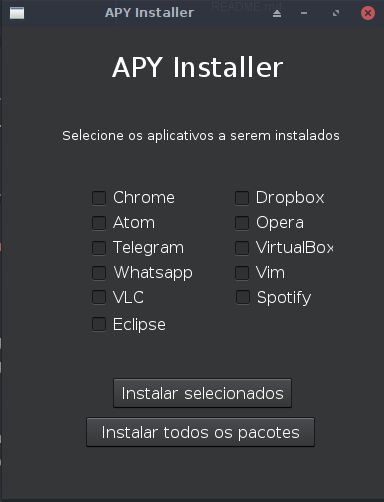
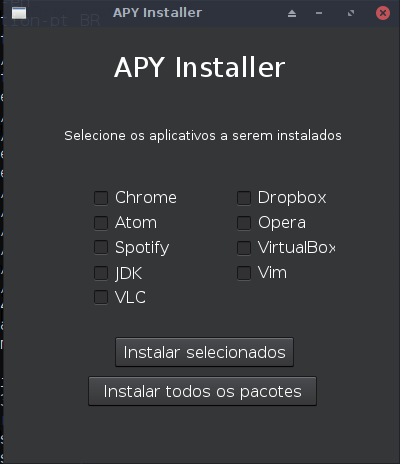
Adição de mais softwares e atualização do exemplo

diff --git a/apy-installer/app.py b/apy-installer/app.py
@@ -29,8 +29,6 @@ class Install(object):
 
                 'Vim': 'sudo -S apt-get install vim -f -y ',
 
-                'Telegram': '',
-
                 'Spotify': 'sudo -S apt-key adv --keyserver hkp://keyserver.ubuntu.com:80 --recv-keys 0DF731E45CE24F27EEEB1450EFDC8610341D9410 && \
                 echo deb http://repository.spotify.com stable non-free | sudo tee /etc/apt/sources.list.d/spotify.list && \
                 sudo apt-get update && sudo apt-get install spotify-client -f -y',
@@ -38,7 +36,12 @@ class Install(object):
                 'VLC': 'sudo -S apt-get install vlc -f -y',
 
                 'VirtualBox': 'sudo -S wget http://download.virtualbox.org/virtualbox/5.2.4/virtualbox-5.2_5.2.4-119785~Debian~jessie_amd64.deb -O virtualbox \
-                sudo dpkg -i virtualbox'
+                sudo dpkg -i virtualbox',
+
+                'Dropbox': 'sudo -S wget https://www.dropbox.com/download?dl=packages/ubuntu/dropbox_2015.10.28_amd64.deb -O dropbox && \
+                dpkg -i dropbox',
+
+                'JDK': 'sudo -S apt-get install default-jre && sudo apt-get install default-jdk'
             }
         command = "echo " + "\""+ self.password +"\"" + " | " + self.commands['update']
 

diff --git a/README.md b/README.md
@@ -7,11 +7,10 @@ Programa que facilita a instalação de ferramentas úteis em sistemas Linux (De
 - [X] Opera
 - [X] Atom
 - [X] Vim
-- [ ] Telegram
 - [X] Spotify
-- [ ] Eclipse
+- [ ] JDK
 - [X] VirtualBox
-- [ ] Dropbox
+- [X] Dropbox
 - [X] VLC
 
 ## Uso
